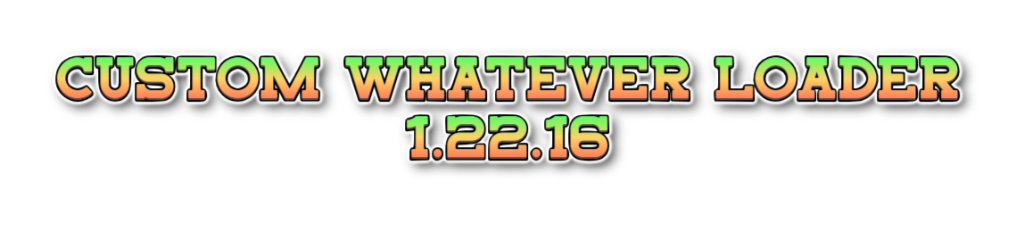
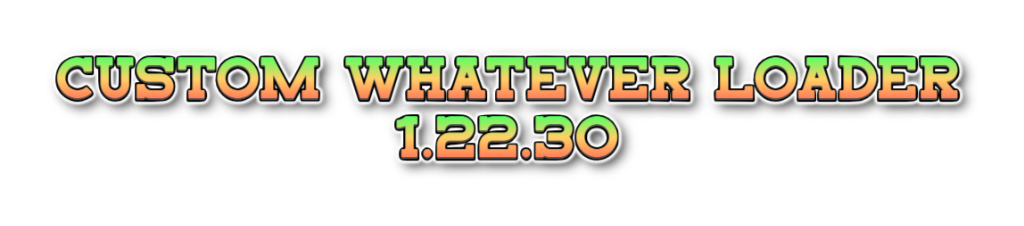
chore(CWL): cleanups & recompile for 307

Changed region(s): [[0.375, 0.4956, 0.625, 0.7743]]

diff --git a/CustomWhateverLoader/Scripting/CwlScriptCompiler.cs b/CustomWhateverLoader/Scripting/CwlScriptCompiler.cs
@@ -8,6 +8,7 @@ using System.Text.RegularExpressions;
 using Cwl.Helper.Exceptions;
 using Cwl.Helper.String;
 using Cwl.LangMod;
+using MethodTimer;
 using Microsoft.CodeAnalysis;
 using Microsoft.CodeAnalysis.CSharp;
 using Microsoft.CodeAnalysis.CSharp.Scripting;
@@ -30,6 +31,7 @@ public class CwlScriptCompiler
         return $"removed {count} cached scripts";
     }
 
+    [Time]
     // no need to trim references because it's never emitted
     internal static ScriptRunner<object> CompileScriptRunner(string script,
                                                              ScriptOptions options,
@@ -64,6 +66,7 @@ public class CwlScriptCompiler
         return runner;
     }
 
+    [Time]
     internal static Compilation CompileScripts(IEnumerable<FileInfo> scripts,
                                                string assemblyName,
                                                CSharpCompilationOptions? options = null)
@@ -97,6 +100,7 @@ public class CwlScriptCompiler
         private readonly string _assemblyName = GetPackageScriptName(package.id);
         private readonly StringBuilderPool _sb = StringBuilderPool.Get();
 
+        [Time]
         public string? Compile()
         {
             if (package.dirInfo.GetDirectories("Script") is not [{ } scriptDir] ||

diff --git a/CustomWhateverLoader/Helper/Unity/SpriteCreator.cs b/CustomWhateverLoader/Helper/Unity/SpriteCreator.cs
@@ -82,7 +82,7 @@ public static class SpriteCreator
             }
 
             var sprite = Sprite.Create(_cached[cache], new(0, 0, _cached[cache].width, _cached[cache].height),
-                pivot.Value, 100f, 0u, SpriteMeshType.FullRect);
+                (Vector2)pivot, 100f, 0u, SpriteMeshType.FullRect);
 
             sprite.name = name;
             return sprite;

diff --git a/CustomWhateverLoader/Loader/CustomWhateverLoader.cs b/CustomWhateverLoader/Loader/CustomWhateverLoader.cs
@@ -22,7 +22,7 @@ public static class ModInfo
     public const string Guid = "dk.elinplugins.customdialogloader";
     public const string Name = "Custom Whatever Loader";
 
-    public const string Version = "1.22.29";
+    public const string Version = "1.22.30";
 
     // for runtime versions
     public static string BuildVersion => field ??= CwlMod.Assembly.GetName().Version.ToString();